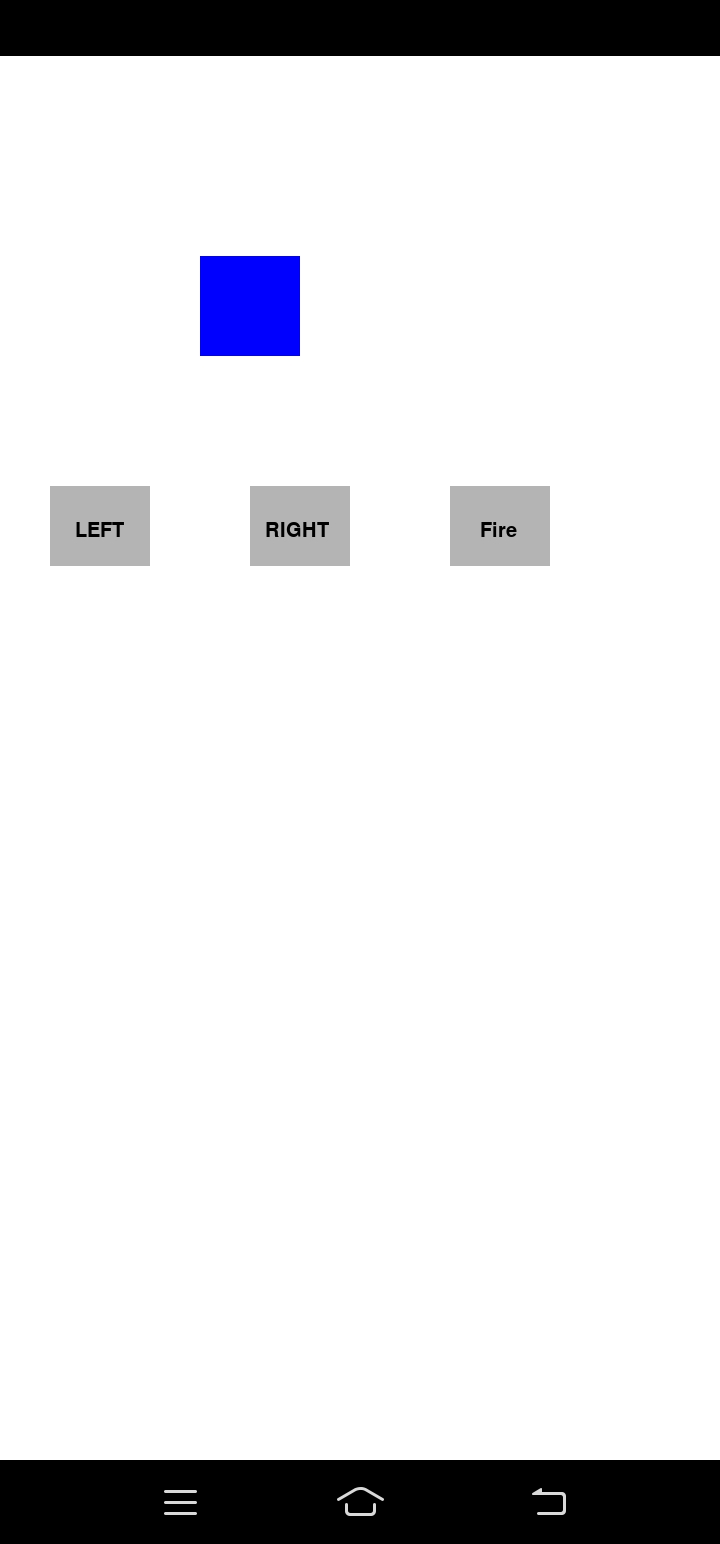
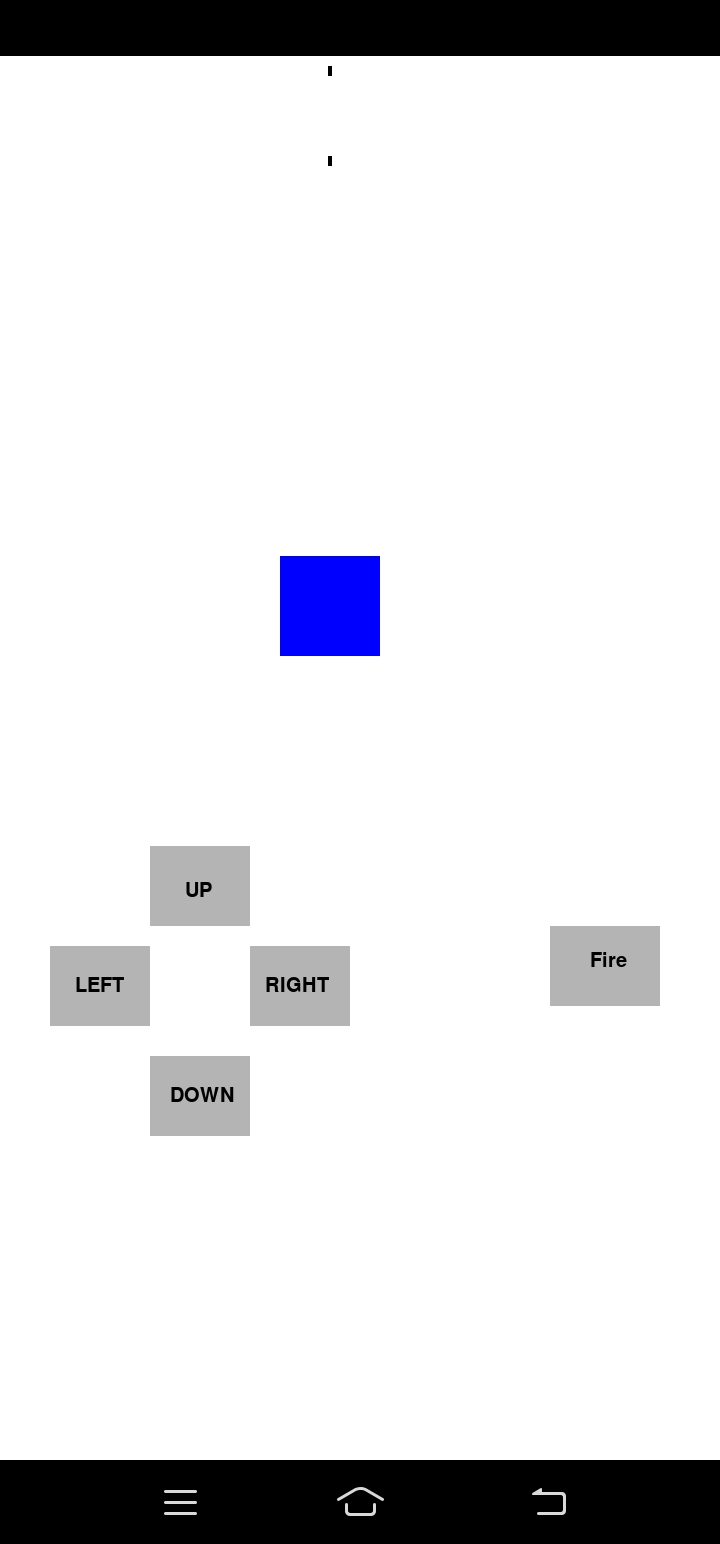
Jan 23 2026

diff --git a/Python/Learning.py b/Python/Learning.py
@@ -12,7 +12,7 @@ GRAY = (180,180,180)
 BLACK = (0, 0, 0)
 
 #box hero
-y = 200
+y = 500
 x = 200
 width = 100
 height = 100
@@ -21,9 +21,11 @@ vel = 20
 bullets = []
 bullet_speed = 10
 #button
-left_btn = pygame.Rect(50, 430, 100, 80)
-right_btn = pygame.Rect(250, 430, 100, 80)
-fire_btn = pygame.Rect(450,430,100,80)
+up_btn = pygame.Rect(150, 730, 100, 80)
+left_btn = pygame.Rect(50, 830, 100, 80)
+right_btn = pygame.Rect(250, 830, 100, 80)
+down_btn = pygame.Rect(150,1000,100,80)
+fire_btn = pygame.Rect(450,730,100,80)
 
 font = pygame.font.SysFont(None, 30)
 
@@ -36,13 +38,18 @@ while run:
     pygame.draw.rect(win, BLUE, (x, y, width, height))
 
     # Draw buttons
+    pygame.draw.rect(win,GRAY, up_btn)
     pygame.draw.rect(win, GRAY, left_btn)
     pygame.draw.rect(win, GRAY, right_btn)
     pygame.draw.rect(win, GRAY, fire_btn)
+    pygame.draw.rect(win,GRAY,down_btn)
 
-    win.blit(font.render("LEFT", True, BLACK),(75, 465))
-    win.blit(font.render("RIGHT", True, BLACK),(265, 465))
-    win.blit(font.render("Fire",True, BLACK),( 480,465))
+    win.blit(font.render("UP", True, BLACK),(185,765))
+    win.blit(font.render("LEFT", True, BLACK),(75, 895))
+    win.blit(font.render("RIGHT", True, BLACK),(265, 895))
+    win.blit(font.render("DOWN",True,BLACK),(170,1030))
+    
+    win.blit(font.render("Fire",True, BLACK),( 480,765))
     for event in pygame.event.get():
           if event.type == pygame.QUIT:
               run = False
@@ -52,9 +59,15 @@ while run:
                    x-=vel
                if right_btn.collidepoint(event.pos) and x < WIDTH - width:
                    x+=vel
-               if fire_btn.collidepoint(event.pos) and pygame.Rect(x + width // 2 - 2, y, 4, 10):
+               if fire_btn.collidepoint(event.pos):
+                  bullet = pygame.Rect(x + width // 2 - 2, y, 4, 10)
                   bullets.append(bullet)
     
+    for bullet in bullets[:]:
+              pygame.draw.rect(win, BLACK, bullet)   
+              bullet.y -=  bullet_speed
+              if bullet.y < 0:
+                  bullets.remove(bullet)
     
     pygame.display.update()
 
